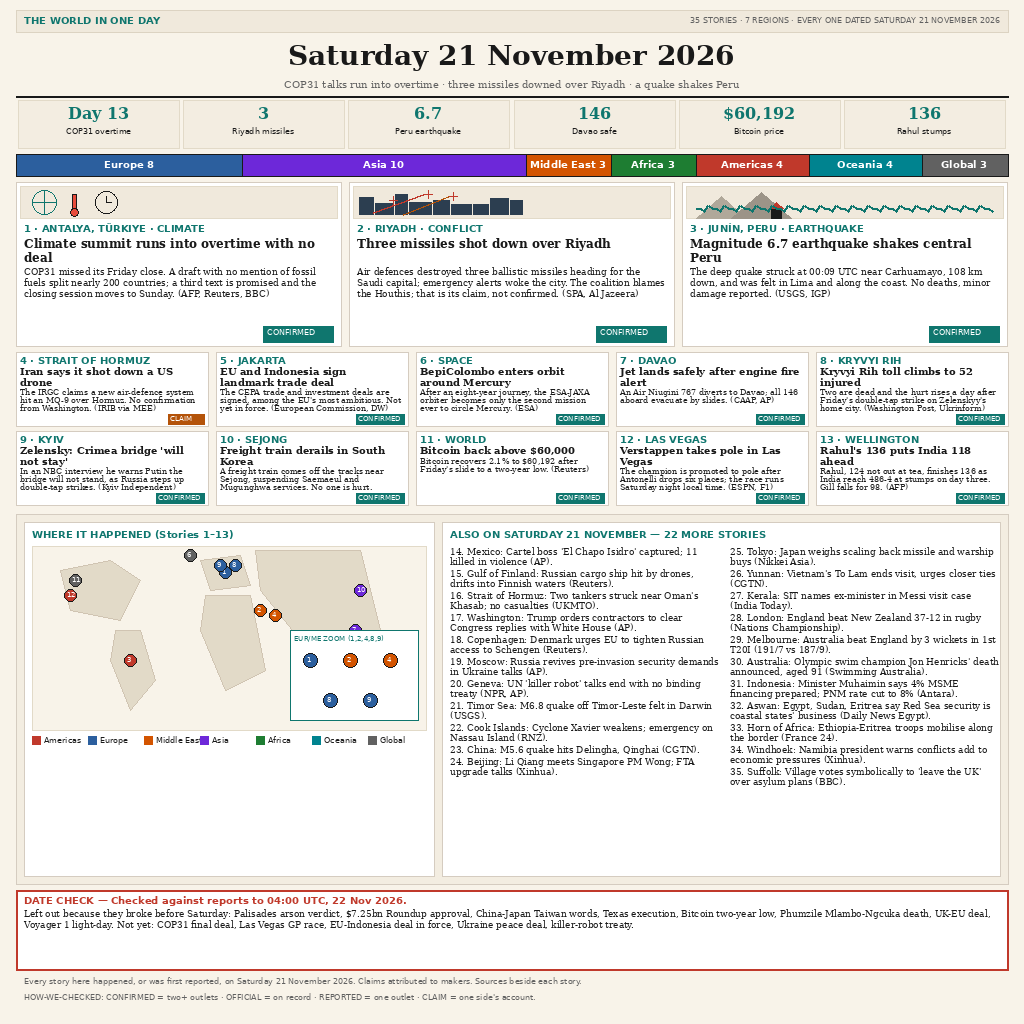
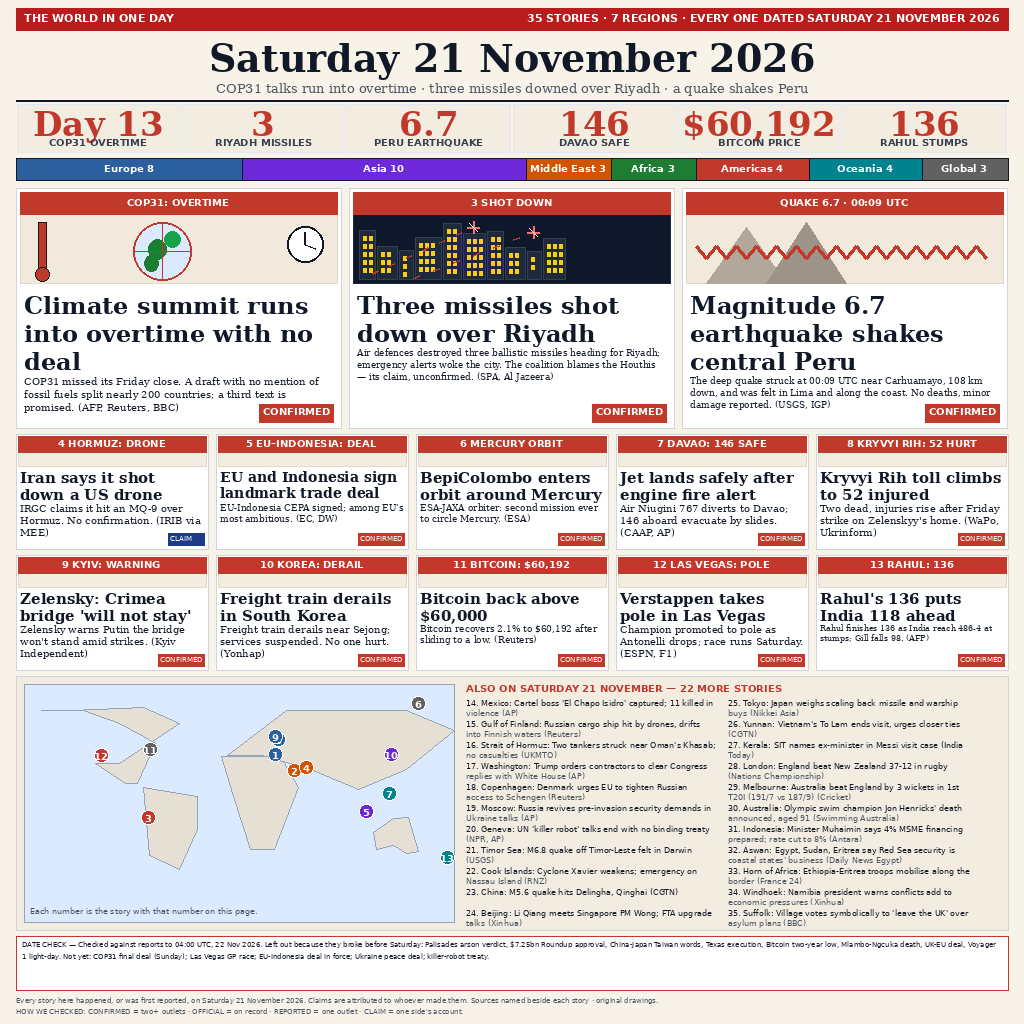
v4: red broadsheet design

diff --git a/main.ts b/main.ts
@@ -1,8 +1,5 @@
 /**
- * Broadsheet News Image Entry Handler
- * 
- * Delivers the compiled broadsheet entry image to the designated output path
- * for the make.fun system. Built using Node 22 native modules.
+ * Delivery helper script for the daily news image artifact.
  */
 
 import { copyFileSync, mkdirSync } from 'node:fs';
